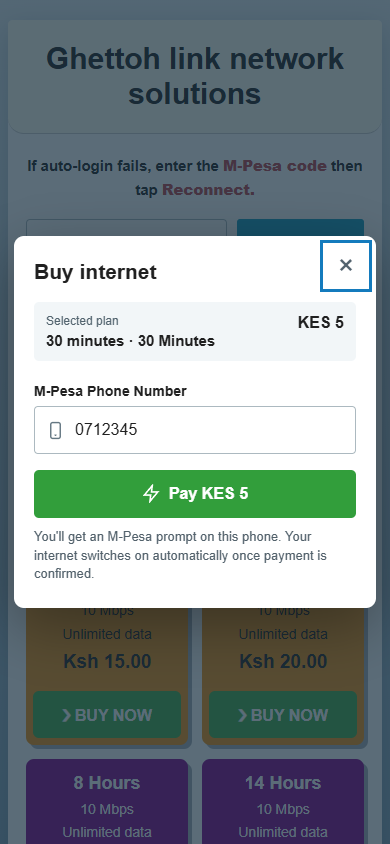
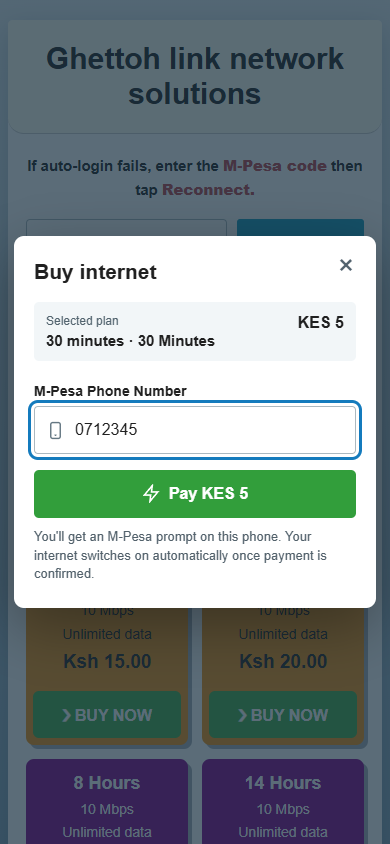
Correct hotspot expiry across tenants and enhance verification; update login input for autofocus and add test assertions

Changed region(s): [[0.0615, 0.4621, 0.9231, 0.5545], [0.8, 0.2773, 0.9538, 0.3697], [0.9231, 0.4929, 0.9538, 0.5237]]

diff --git a/tools/test_hotspot_portal_layout.js b/tools/test_hotspot_portal_layout.js
@@ -52,6 +52,7 @@ function fixture(buyOnly=false) {
         assert.equal(await page.locator('.pkg-row.selected input').inputValue(),'39');
         assert.equal(await page.locator('#payment-dialog').evaluate(el=>el.open),true);
         assert.equal(requests,0);
+        assert.equal(await page.evaluate(()=>document.activeElement.id),'buy-phone');
         await page.screenshot({path:path.join(artifacts,'hotspot-simplified-payment.png')});
         console.log('PASS: forced page reload restores selected package, partial number and payment dialog without an API request');
         await page.getByRole('button',{name:'Close payment',exact:true}).click();

diff --git a/hotspot/login.html b/hotspot/login.html
@@ -153,7 +153,7 @@ dialog{border:0;border-radius:10px;padding:24px 20px;width:calc(100% - 28px);max
         <div class="input-wrap">
           <svg viewBox="0 0 24 24"><rect x="6" y="2" width="12" height="20" rx="2.5"/><path d="M11 18h2"/></svg>
           <input type="tel" id="buy-phone" placeholder="0712 345 678"
-                 autocomplete="tel" inputmode="numeric" maxlength="15">
+                 autocomplete="tel" inputmode="numeric" maxlength="15" autofocus>
         </div>
       </div>
 

diff --git a/HOTSPOT_PORTAL_VERIFICATION.md b/HOTSPOT_PORTAL_VERIFICATION.md
@@ -1,6 +1,14 @@
 # Captive portal refresh and purchased-time verification
 
-Local verification: 2026-09-11. Changes are not deployed. Live verification is pending: SSH authentication to the VPS was rejected.
+Deployed on 2026-09-11 to `/var/www/html/fortunett_technologies_` and tenant 9's router 19 (rb951). Router build `e899b1b9f51d` was read back as CURRENT at 18:36 Africa/Nairobi. Original files and repair evidence are backed up under `/root/fortunett-portal-20260911/`.
+
+Live results:
+
+- Applied the three owner-approved package duration corrections and 44 customer expiry corrections (41 initially, then 3 after resolving checkout/receipt ledger aliases). Both aliases must map to the same confirmed STK with identical amount and duration; conflicting or unproven duplicates still require review. Financial ledger rows are preserved, and audit evidence retains their payment IDs.
+- Read back and verified all ten current package profiles. All tenant 9 dashboard synchronization jobs finished with zero unapplied jobs. Fixed a production schema mismatch: router service states now use `expired`/`suspended` instead of the unsupported `inactive` value.
+- Fixed the portal sync script's live RouterOS syntax error caused by attempting to rename a file. It now updates the version marker's contents; API script failures are checked rather than reported as success. Both the new layout and draft recovery were found in the page downloaded by the router. Cloudflare adds a 367-byte analytics script to that response; the rest matched the server-rendered page.
+- A temporary isolated account on the real router was enabled with a 45-second deadline. Its scheduled expiry event ran once, and the account was disabled after expiry. The temporary account and its schedule were removed. This proves the tested router event executed; it does not measure packet cutoff latency or prove real-phone M-Pesa delivery.
+- The live audit covers all 67 tenant 9 customers. Historical financial exceptions still prevent a universal entitlement guarantee. G020 has active access through 6 October without a completed payment record; owner clarification was requested. Do not silently assume that grant is either paid or complimentary.
 
 The subsequent user recording (19 seconds) shows the selected package disappearing on reload before payment. This does not establish the cause of that particular reload. The simplified portal now restores a partial phone number, selected package and receipt draft from session storage for up to 30 minutes, without issuing payment or reconnect requests. A checkout that started after the draft takes precedence; confirmed credential handoff clears the draft. Live Android/RouterOS reload behaviour still needs checking.
 
@@ -20,9 +28,9 @@ Verified locally:
 - `php tools/test_hotspot_onboarding.php`: 151 checks passed, exercising actual PHP activation/provisioning functions with database, gateway and router doubles. All ten advertised durations were covered: 30 minutes; 1, 3, 6, 8, 14 and 24 hours; 4, 7 and 30 days. Tests cover duplicate confirmation, receipt aliases, durable retries, finite router limits, scheduler failures, and exact-expiry rejection. A separate paid renewal may add purchased time; login, receipt reuse and provisioning retries may not.
 - `php tools/test_connectivity_audit.php`: 15 checks passed, including excess database entitlement, later router deadlines, RouterOS legacy dates, missing deadlines, unlimited uptime and incomplete purchase evidence.
 
-These simulations do not prove Safaricom prompt delivery, database locking under real concurrent callbacks, RouterOS script execution, or actual Internet cutoff.
+The simulations do not prove Safaricom prompt delivery, database locking under real concurrent callbacks or actual Internet cutoff. The separate live test above verifies execution of an isolated router deadline event.
 
-After deploying the repository changes on the VPS, publish and check the captive page on tenant 9's routers:
+To republish or check the captive page on tenant 9's routers:
 
 ```bash
 php cron/sync_hotspot_pages.php --tenant=9 --force
@@ -40,3 +48,5 @@ The audit compares reconstructed purchase entitlement with database expiry and r
 Finish live verification on a test device connected to the actual captive Wi-Fi: slowly enter the phone number, receive and approve one real prompt, record the saved purchase duration and absolute expiry, and verify Internet access. Refresh, reconnect and recheck the same payment without changing that expiry. At the recorded expiry, observe ongoing traffic stop and verify that a fresh reconnect or receipt reuse cannot restore access. Repeat router reboot/reconnect and provisioning-failure recovery on a test router. Confirm the real router deadline and traffic cutoff for each advertised duration before making a fleet-wide guarantee.
 
 Browser test setup can live outside the repository. With Playwright installed and `NODE_PATH` pointing to its node_modules, run `node tools/test_hotspot_portal_browser.js`. Set `PORTAL_BROWSER` to an installed Chrome/Edge executable if Playwright's Chromium is unavailable. `PORTAL_TEMPLATE` and `PORTAL_EXPECT_REFRESH_LOOP=1` allow reproducing the loop against a saved original template. All gateway and router endpoints in this test are intercepted; it sends no real payment prompt.
+
+Router file operations were checked against the [MikroTik Files documentation](https://help.mikrotik.com/docs/spaces/ROS/pages/2555971/Files). The decisive compatibility evidence was the live script error and successful subsequent update.

diff --git a/HOTSPOT_GLOBAL_REPAIR.md b/HOTSPOT_GLOBAL_REPAIR.md
@@ -9,7 +9,7 @@ php tools/reconcile_hotspot_expiries.php --tenant=9 --tariffs=config/ghettohlink
 php tools/reconcile_hotspot_expiries.php --tenant=9 --tariffs=config/ghettohlink_hotspot_tariffs.json --apply > /root/hotspot-expiry-repairs.json
 ```
 
-This corrects package durations as well as reconstructing customer deadlines. It matches exact prices, preserves shorter recorded terms, and uses original payment_date only when the activation timestamp was not saved; that conservative fallback may exclude the seconds spent awaiting the original confirmation and is explicitly recorded. It never uses the mutable STK updated_at timestamp. Unknown amounts and financial-ledger discrepancies remain review items. Successful apply writes durable router jobs; cron/retry_provisions.php must run and its router results must be audited. No live changes have been performed by local tests.
+This corrects package durations as well as reconstructing customer deadlines. It matches exact prices, preserves shorter recorded terms, and uses original payment_date only when the activation timestamp was not saved; that conservative fallback may exclude the seconds spent awaiting the original confirmation and is explicitly recorded. It never uses the mutable STK updated_at timestamp. Unknown amounts and financial-ledger discrepancies remain review items. Successful apply writes durable router jobs; cron/retry_provisions.php must run and its router results must be audited. Local tests do not change live records. On 2026-09-11 the approved tenant 9 repair was subsequently applied on the VPS: three package duration corrections and 44 customer expiry corrections; see HOTSPOT_PORTAL_VERIFICATION.md for live evidence and remaining exceptions.
 
 The receipt reconnect fix prevents reused payment codes from granting time. Additional guards stop v1 renew/edit requests and paid customer registration/import from creating unpurchased hotspot access. Paid registrations remain pending with no expiry; contact imports preserve existing hotspot access settings. Free packages retain their configured finite duration.
 
